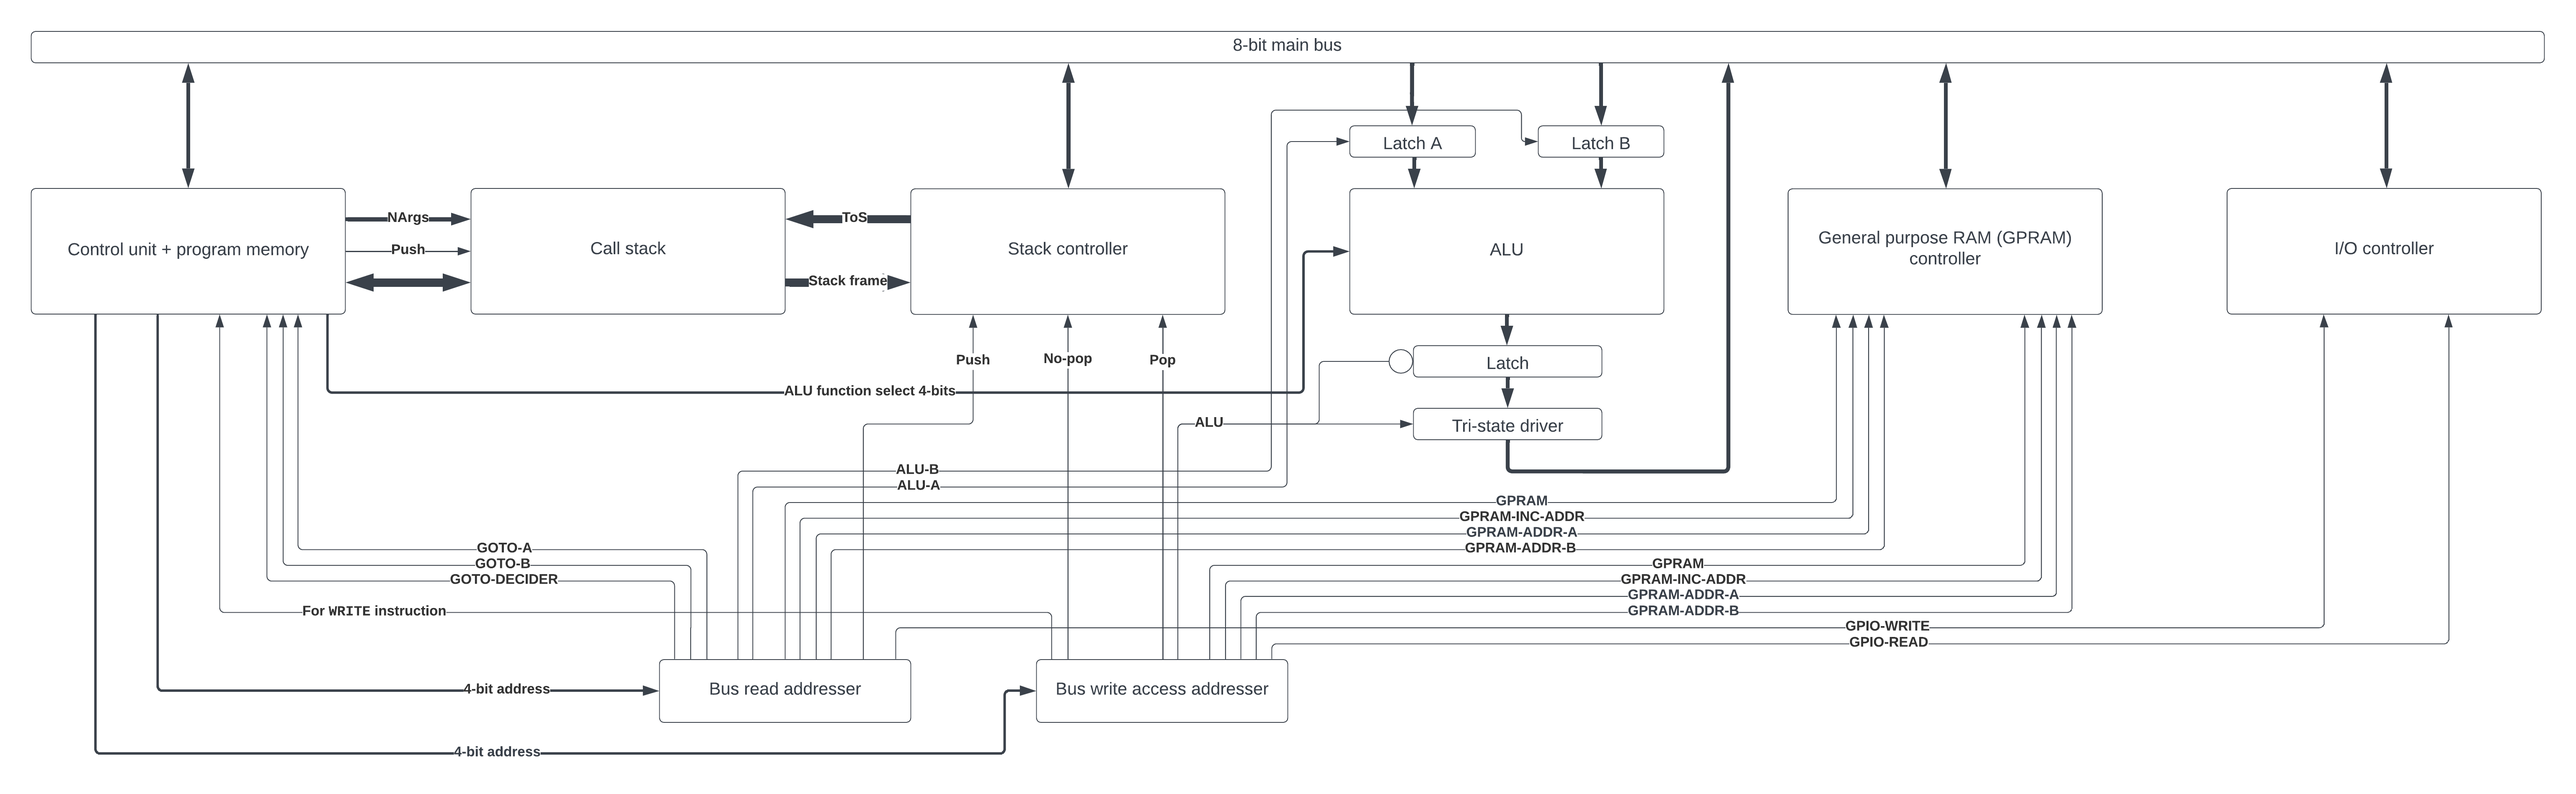
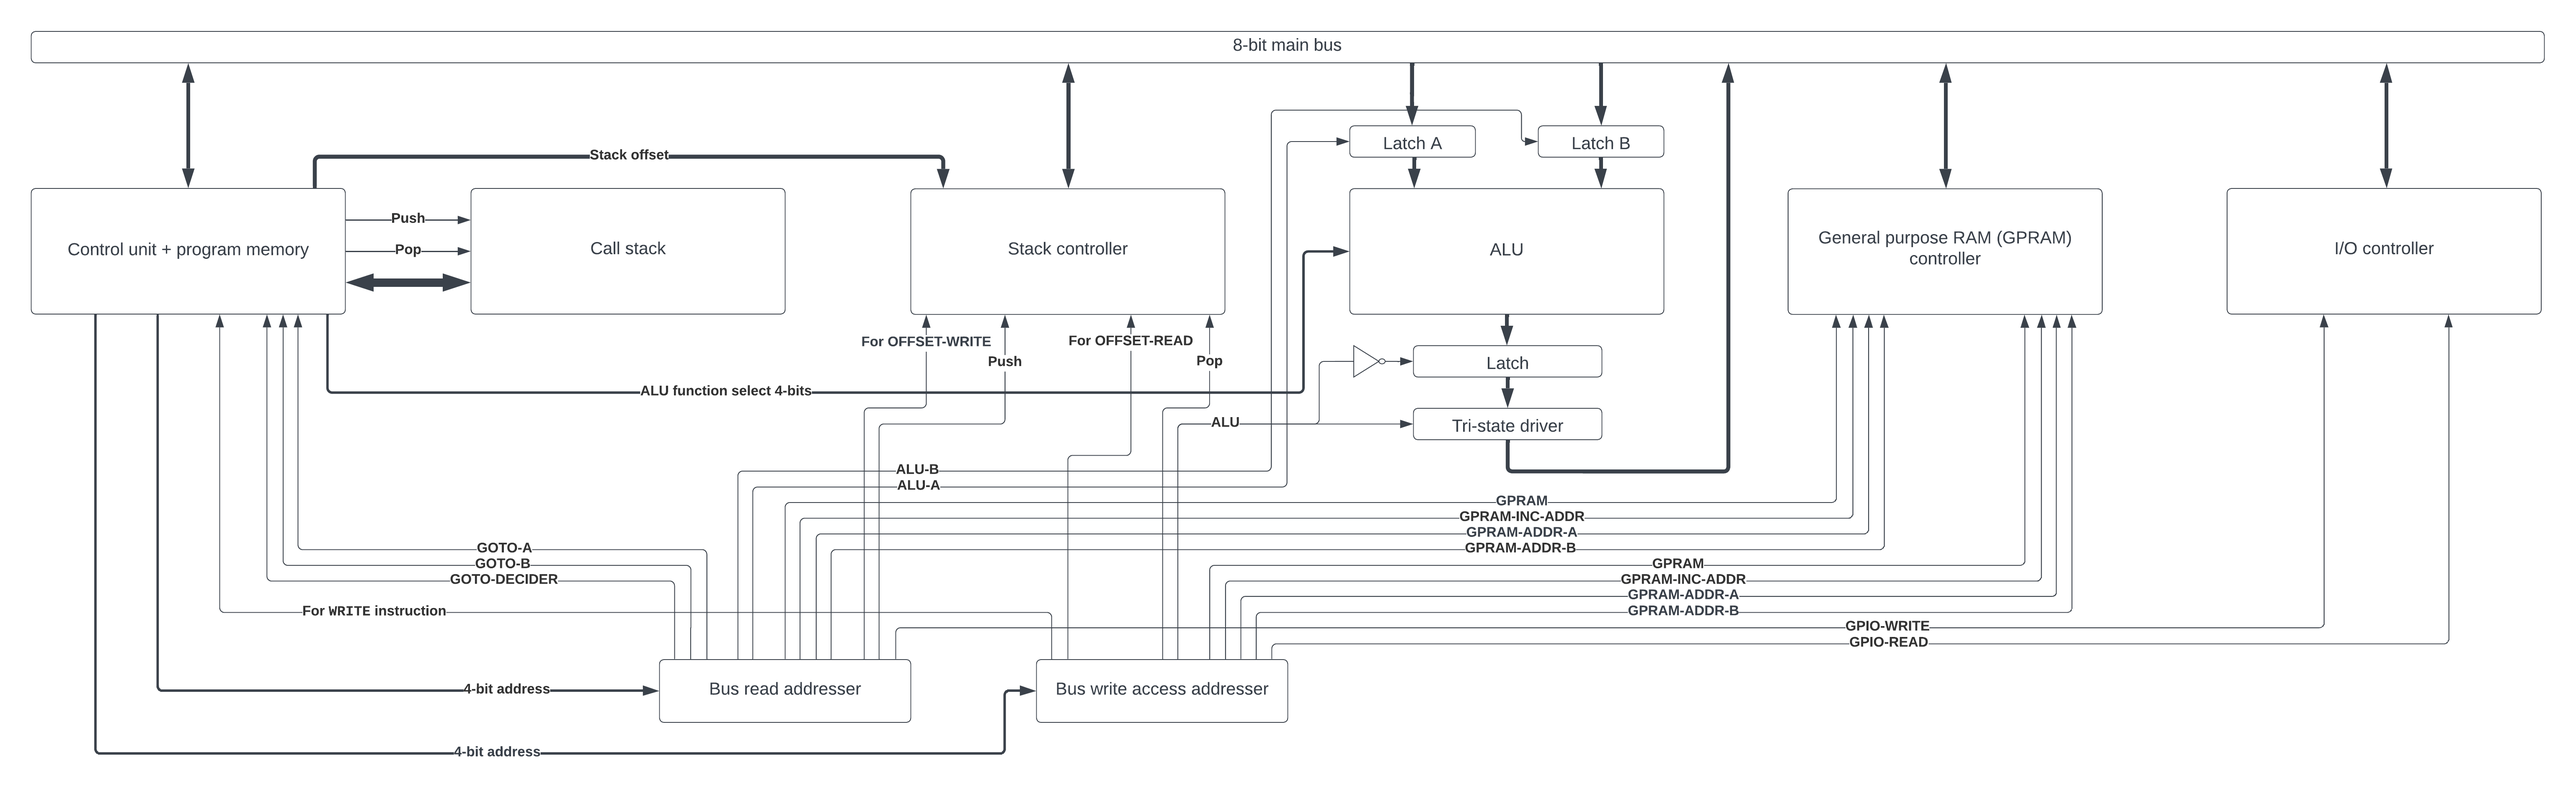
Details

diff --git a/README.md b/README.md
@@ -1,7 +1,9 @@
 # Overview
 
-This will be an 8-bit stack-based computer processor based off of Reverse Polish Notation (RPN). The whole computer has a LIFO (Last In First Out) single stack which stores individual bytes. Memory pointers will be 16 bits. There will be another piece of memory that will be sort of like the heap and can be written to and read from without hardware protection.
+This is the design and specifications for an 8-bit stack-based computer processor designed to support programming Reverse Polish Notation (RPN). The computer has a LIFO (Last In First Out) single stack which stores individual bytes. The Top of Stack (ToS) will be a 16-bit number which can be incremented and decremented for Pushes and Pops. It will also be possible to read/write the stack below the ToS. There will be another piece of memory, the general purpose static-RAM (GPRAM), that will be sort of like the heap and can be written to and read from without hardware protection.
 I got the idea for this from my 1989 HP 48SX calculator which also uses RPN.
+
+<img src="images/main_block_diagram.png"></img>
 
 # Program instructions
 
@@ -14,10 +16,10 @@ Here's the current list of the operation codes (opcodes):
 2. `GOTO` - Saves the 2 execution pointer GOTO latches (each of them are 1 byte) to the execution pointer
 3. `GOTO-IF` - Reads the LSB of the value in the goto decider latch and does a GOTO only if it is 1, otherwise does nothing
 4. `HALT` - Stops the clock, usefull for debugging
-5. `CALL` - Effectively the same as `GOTO` but creates a new stack frame by pushing the return address and stack frame pointer onto the call stack. The stack frame pointer will be calculated as `ToS - (NArgs - 1)` where `ToS` is the current top-of-stack pointer, and `NArgs` is the number of arguments passed to the function on the stack (bits 4 - 11 of this instruction). This calculation will ensure that the bottum of the newly called function's stack frame will be at the first of its arguments.
-6. `RETURN` - The program counter will be set to bits 16 - 31 of the 32-bit word poped off the call stack (this is the return address). The stack-frame pointer will be ignored as it is no longer needed.
-7. `READ-VAR` - Reads from the stack at the current stack frame pointer + bits 4 - 11 of this instruction. Bits 12 - 15 address device to read the bus.
-8. `WRITE-VAR` - Similar to `READ-VAR` except writes to stack. Bits 8 - 11 address device to write to the bus, bits 4 - 7 & 12 - 15 are the variable offset.
+5. `CALL` - Effectively the same as `GOTO` but also pushes the return address (current value of program counter) onto the call stack. Note: The return address can be copied as-is and does not need to be incremented because it will be incremented normally after each `RETURN` instruction when it is used.
+6. `RETURN` - The program counter will be set to the return address popped off the top of the call stack.
+7. `OFFSET-READ` - Reads value from below the ToS. Bits 4 - 11 are the offset to be subtracted from the ToS pointer. Bits 12 - 15 address device to read the bus.
+8. `OFFSET-WRITE` - Writes value below the ToS. Bits 4 - 7 & 12 - 15 are the stack offset. Bits 8 - 11 address device to write to the bus.
 
 # Bus
 
@@ -36,12 +38,11 @@ Devices that can read the bus:
 9. `GPRAM-ADDR-A` - GPRAM - Address latch A
 10. `GPRAM-ADDR-B` - GPRAM - Address latch B
 11. `GPIO-WRITE` - Writes to GPIO output pins
-12. Replaces value at current stack frame pointer + given variable offset. Used by the `WRITE-VAR` instruction.
+12. Replaces value from stack at ToS - offset. Used by the `OFFSET-WRITE` instruction.
 
 Devices that can set the state of (write to) the bus:
 
-0. `STACK-NO-POP` - Stack controller (Don't pop)
-1. `STACK-POP` - Stack controller (pop)
+0. `STACK-POP` - Stack controller (pop)
 2. `ALU` - ALU output
 3. Control unit instruction bits 4 - 11, used for the `WRITE` instruction
 4. `GPRAM` - GPRAM - Read
@@ -49,10 +50,10 @@ Devices that can set the state of (write to) the bus:
 6. `GPRAM-ADDR-A` - GPRAM - Address bits 0 - 7
 7. `GPRAM-ADDR-B` - GPRAM - Address bits 8 - 15
 8. `GPIO-READ` - Reads GPIO input pins
-9. Reads value at current stack frame pointer + given variable offset. Used by the `READ-VAR` instruction.
+9. Reads value from stack at ToS - offset. Used by the `OFFSET-READ` instruction.
 
 First iteration of how the bus timing will work
-<img src="bus_timing_drawing.jpg"></img>
+<img src="images/bus_timing_drawing.jpg"></img>
 
 # The Stack
 
@@ -63,13 +64,9 @@ There will be two ways to access the stack:
 1. Push, Read (No-pop), and Read (Pop)
 2. Using the current stack frame pointer + variable offset
 
-## Stack variable offset
+# Call stack
 
-The stack variable offset will be an 8-bit number added to the current stack-frame pointer. It will be sent by the control unit during both `READ-VAR` and `WRITE-VAR` instructions.
-
-# Call stack & stack frames
-
-Whenever a "function" is called (using the `CALL` instruction), the first bytes on the stack are the function's parameters. After that it's whatever local variables/operands that the function uses. To keep track of where a function's stack frame begins, there will be a seperate stack memory (the Call Stack) containing 256 (1 byte address size) 32-bit words. The 1st 16 bits of each call stack word will be the pointer to the start of each corresppnding stack frame, the 2nd 16 bits will be the return address - where to set the program counter during a `RETURN` instruction.
+Whenever a "function" is called (using the `CALL` instruction), the current program counter will be pushed onto the call stack. The call stack will be a seperate stack memory containing 256 (1 byte address size) 16-bit words. Each word will be a return address - where to set the program counter during a `RETURN` instruction.
 
 # ALU
 
